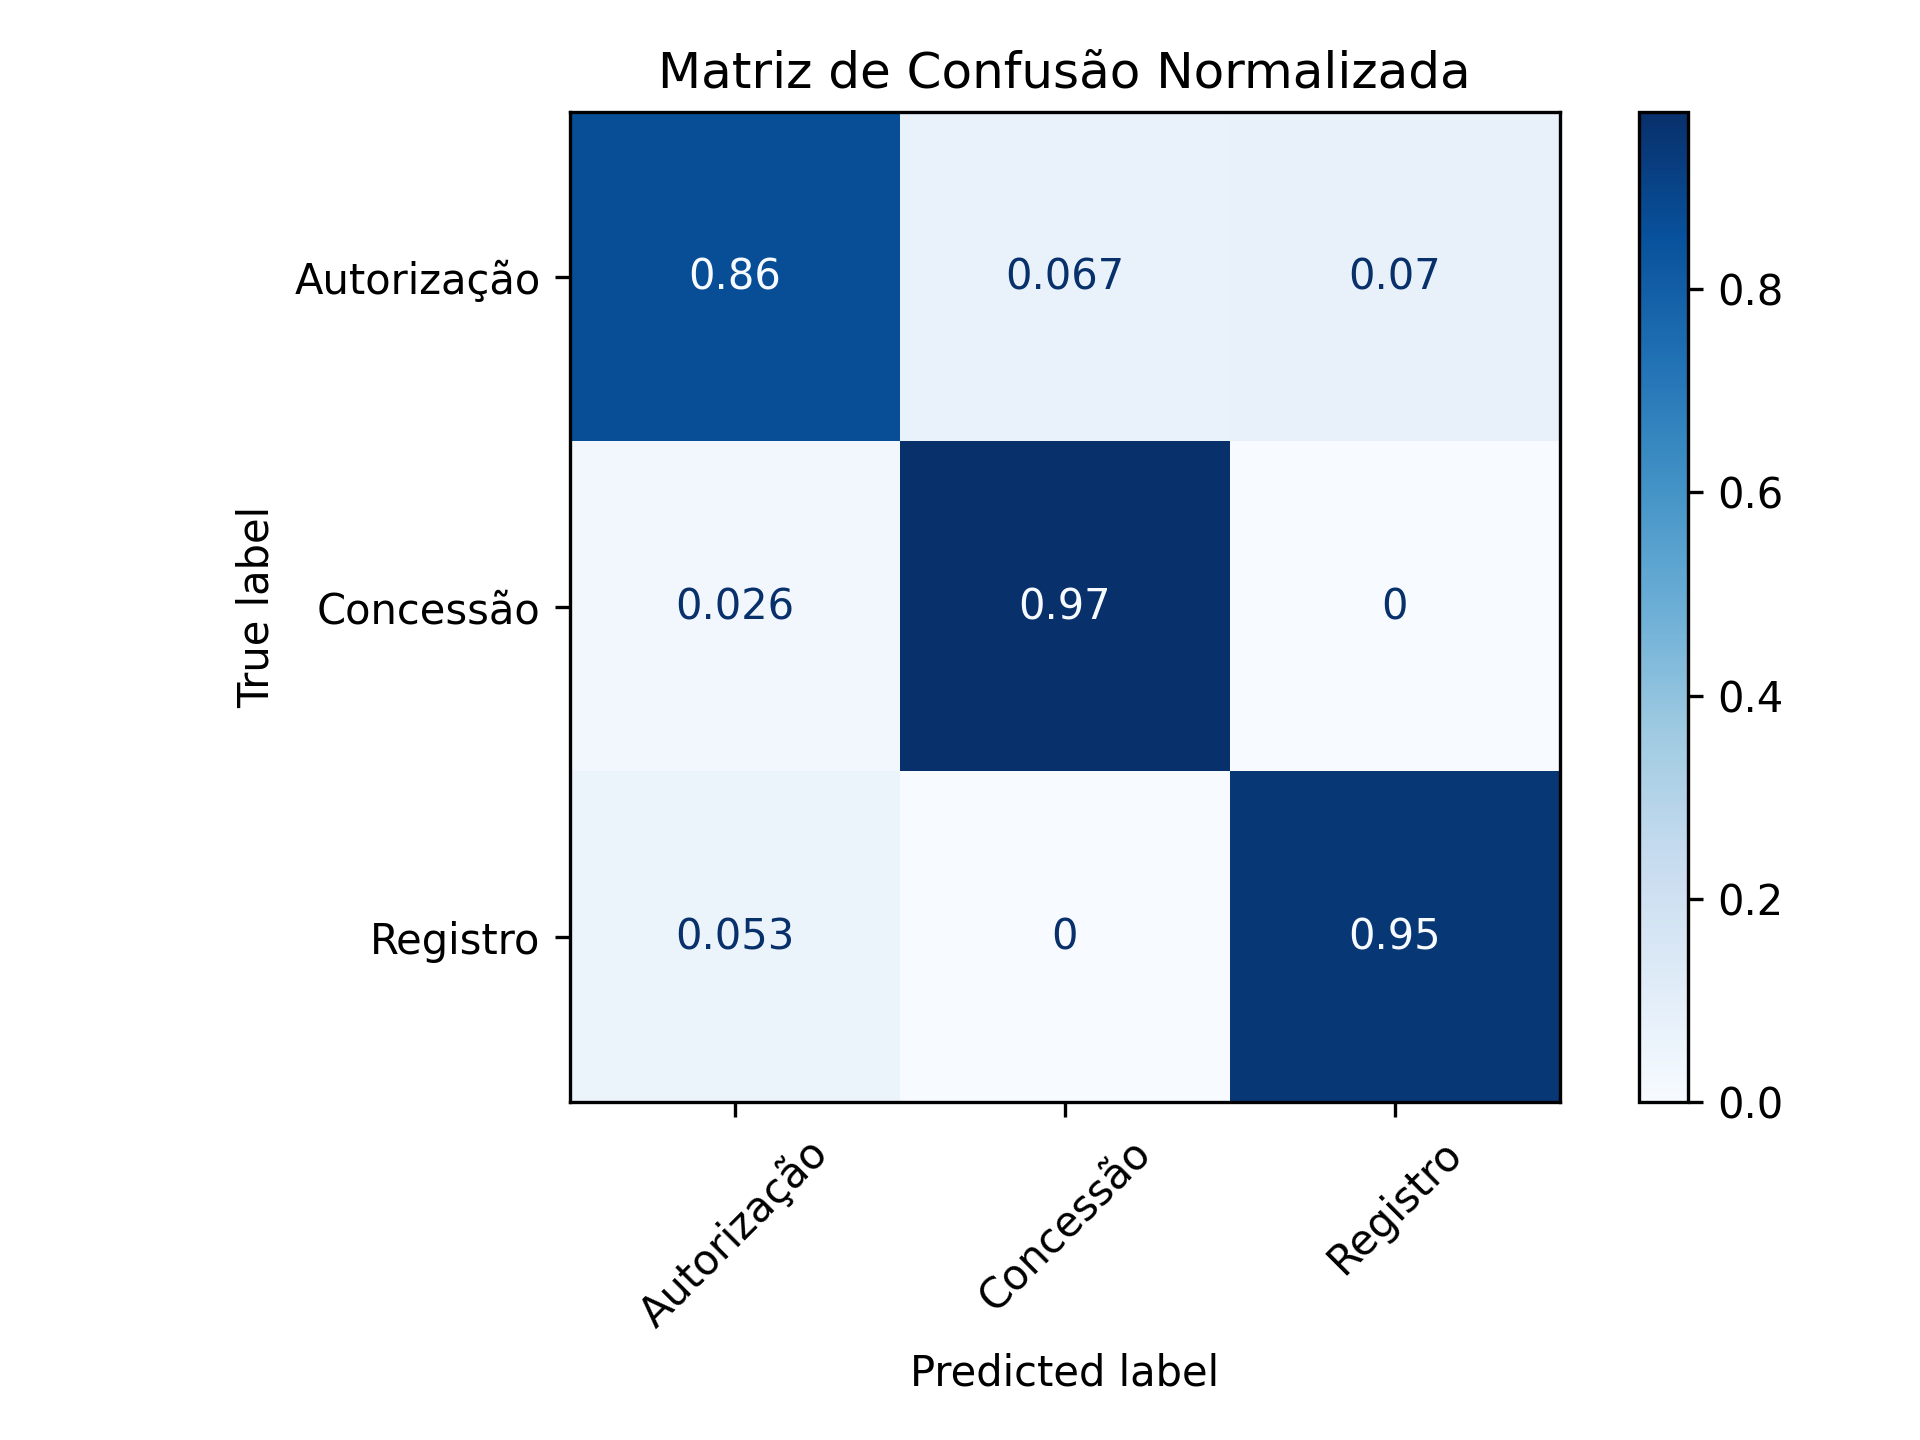
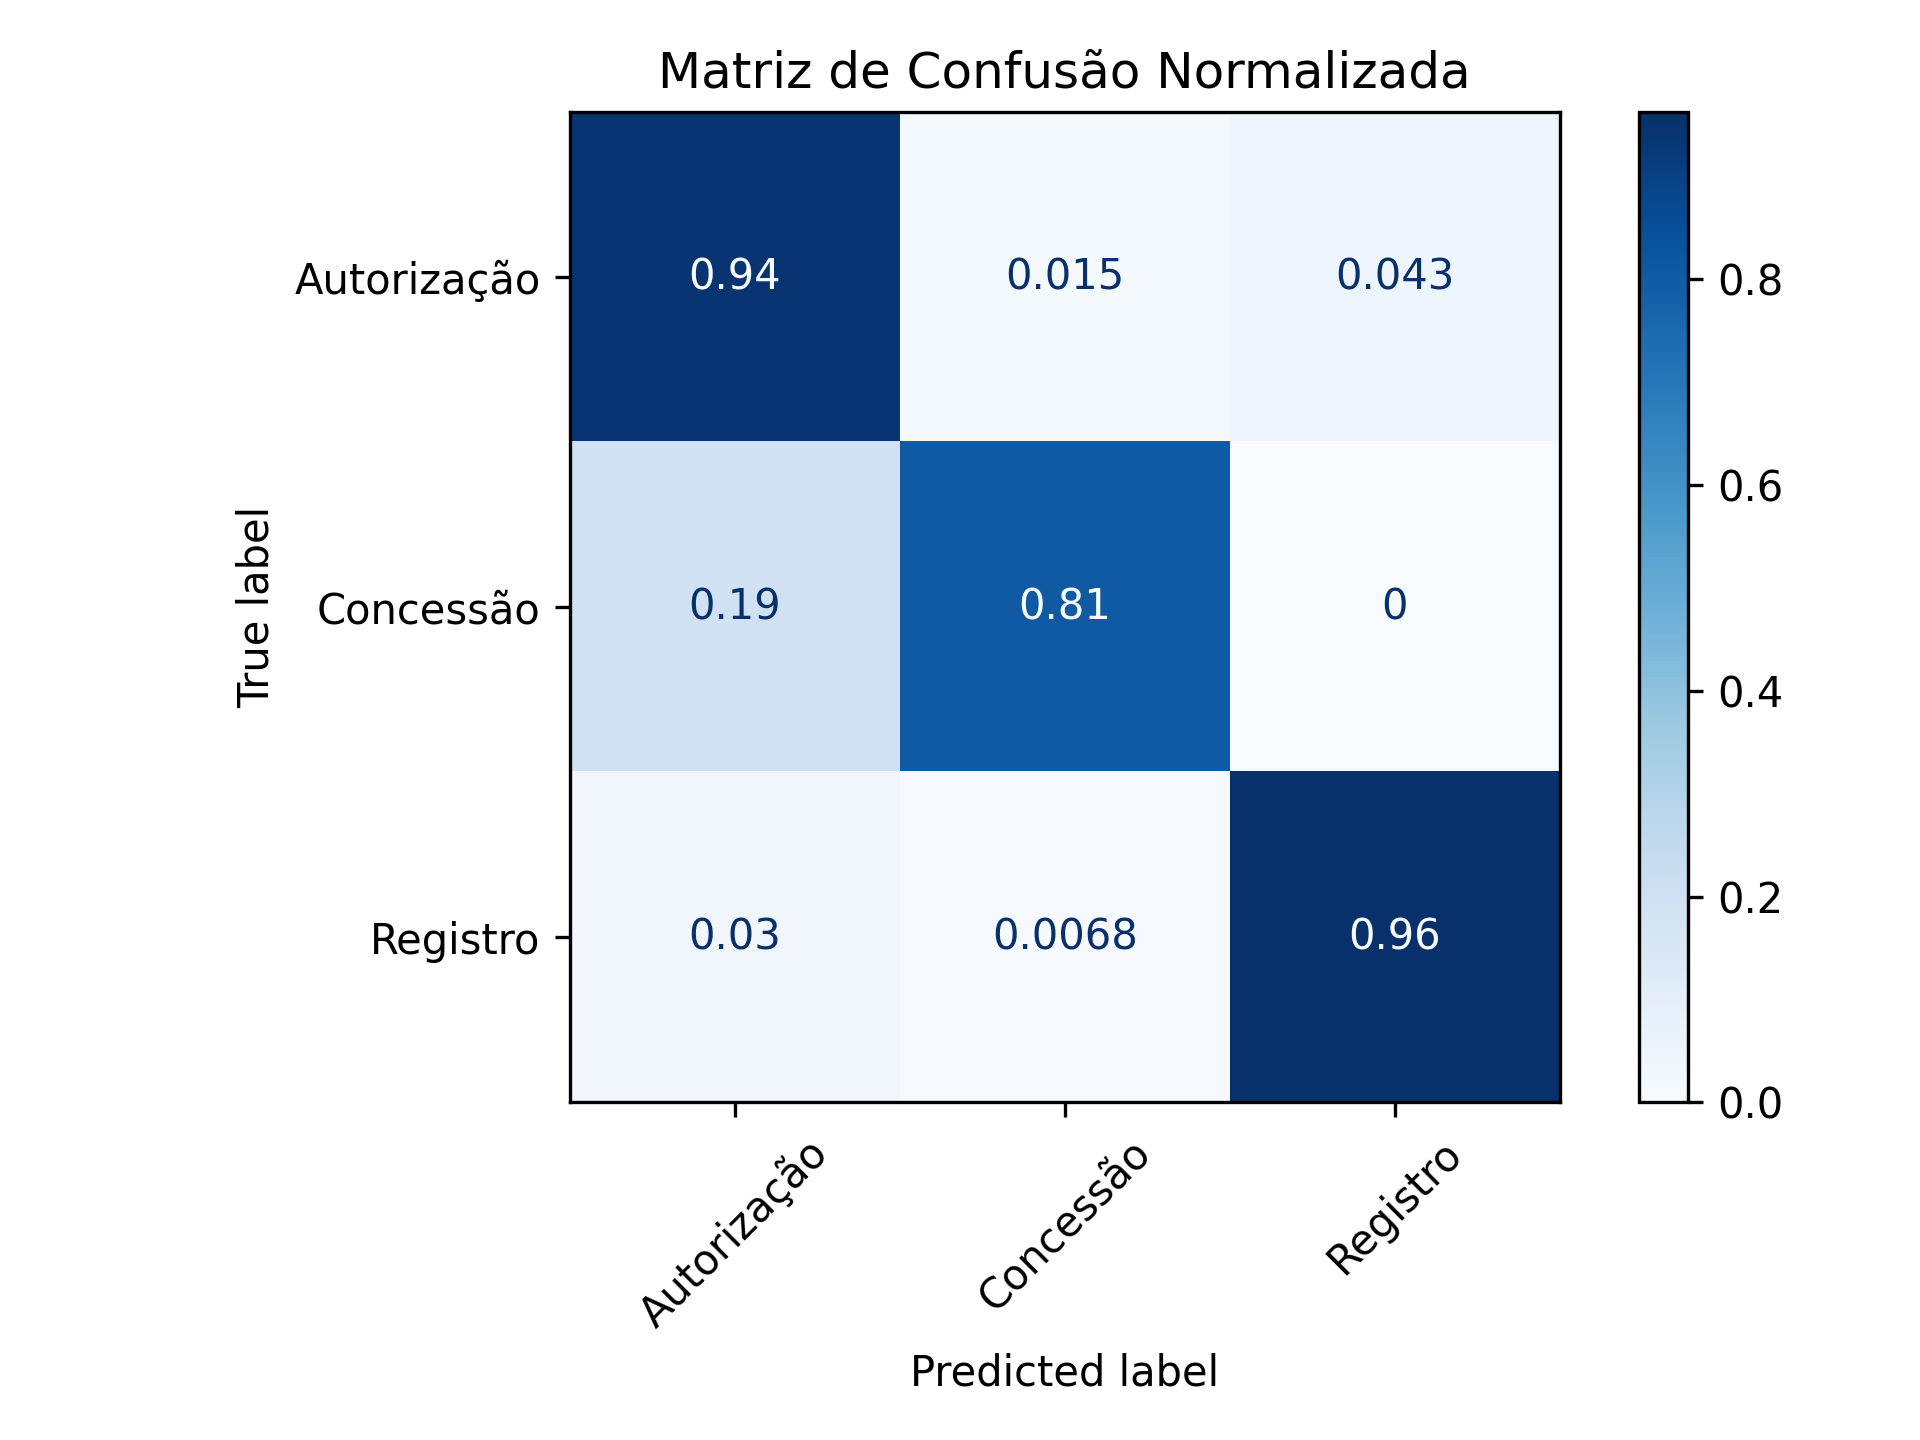
Atualizando o Readme. Modificando o arquivo train.py e model.py em Rep Tree e no Random Forest

diff --git a/src/decision_tree/train.py b/src/decision_tree/train.py
@@ -24,7 +24,8 @@ def train_test(previsores, classe):
 
 def buscar_melhor_alpha(x_train, y_train):
     
-    arvore_base = DecisionTreeClassifier(random_state=2, class_weight='balanced')
+    arvore_base = DecisionTreeClassifier(random_state=2, 
+                                         class_weight='balanced')
     path = arvore_base.cost_complexity_pruning_path(x_train, y_train)
     ccp_alphas = path.ccp_alphas
 
@@ -42,14 +43,24 @@ def alpha(ccp_alphas, x_train, y_train):
     
     return scores
 
+def poda_visualizacao_relatorio():
+
+    arvore_podada_relatorio = DecisionTreeClassifier(
+            random_state=2,
+            #ccp_alpha=melhor_alpha,
+            max_depth=8, 
+            min_samples_split=100,
+            max_leaf_nodes=10,
+            class_weight='balanced'
+    ) 
+
+    return arvore_podada_relatorio
+
 def poda(melhor_alpha):
 
     arvore_podada = DecisionTreeClassifier(
                 random_state=2, 
                 ccp_alpha=melhor_alpha,
-                max_depth=8, 
-                min_samples_split=100,
-                max_leaf_nodes=10,
                 class_weight='balanced')
     
     return arvore_podada 
@@ -76,18 +87,15 @@ def matriz_confusao(y_test, previsoes, arvore):
 def acuracia(y_test, previsoes): 
 
     taxa_acerto = accuracy_score(y_test, previsoes)
-    taxa_erro = 1 - taxa_acerto
-
     return taxa_acerto 
 
 
-def variavei_importantes(arvore, dados_usina, y_test, previsoes):
+def variaveis_importantes(arvore, data_frame, y_test, previsoes):
 
-    importancias = pd.Series(arvore.feature_importances_, index=dados_usina.columns[:-1])
+    importancias = pd.Series(arvore.feature_importances_, index=data_frame.columns[:-1])
     print(importancias.sort_values(ascending=False))
 
-    print(classification_report(y_test, previsoes))
-
+    
 
 def gerar_arvore(arvore_podada):
 

diff --git a/src/decision_tree/model.py b/src/decision_tree/model.py
@@ -22,6 +22,7 @@ def criar_modelo_decision_tree():
     melhor_indice = np.argmax(scores)
     melhor_alpha = ccp_alphas[melhor_indice]
 
+    #Ávore para metricas do Relatório 
     arvore_podada = t.poda(melhor_alpha)
 
     arvore_podada.fit(x_train, y_train)
@@ -29,13 +30,19 @@ def criar_modelo_decision_tree():
     previsoes = arvore_podada.predict(x_test)
 
     taxa_acerto = t.acuracia(y_test, previsoes)
-    importancias = t.variavei_importantes(arvore_podada, dados_usina, y_test, previsoes)
+    importancias = t.variaveis_importantes(arvore_podada, dados_usina, y_test, previsoes)
     
-    print(importancias)
+    #t.matriz_confusao(y_test, previsoes, arvore_podada)
+
     print(taxa_acerto)
     print(classification_report(y_test, previsoes))
 
-    #t.matriz_confusao(y_test, previsoes, arvore_podada)
+    #Visulização da Árvore para Relatório
 
+    #arvore_relatorio = t.poda_visualizacao_relatorio() 
 
-    #t.gerar_arvore(arvore_podada)
+    #arvore_relatorio.fit(x_train, y_train)
+
+    #t.gerar_arvore(arvore_relatorio)
+
+    

diff --git a/src/random_forest/model.py b/src/random_forest/model.py
@@ -1,27 +1,29 @@
 from src.data_transformation.transformation import tratamento_dados as trans
 from src.random_forest import train as t 
 
-from sklearn.preprocessing import LabelEncoder
 from sklearn.ensemble import RandomForestClassifier
 
 def criar_modelo_random_forest(): 
 
     previsores, classe, dados_usina = trans()
 
-    x_train, x_test, y_train, y_test  = t.train_test_split(previsores, classe)
+    x_train, x_test, y_train, y_test  = t.train_test(previsores, classe)
 
-    floresta = RandomForestClassifier(n_estimators=100)
+    floresta = RandomForestClassifier(n_estimators=100, random_state=2)
 
     floresta.fit(x_train, y_train)
 
-    floresta.estimator_
+    #floresta.estimator_
 
     previsoes = floresta.predict(x_test)
 
-    #t.matriz_confusao(y_test, previsoes, floresta)
 
-    t.acuracia(y_test, previsoes)
+    acuracia = t.acuracia(y_test, previsoes)
+    
+    print(acuracia)
 
     t.variavei_importantes(floresta, dados_usina, y_test, previsoes)
+    
+    t.matriz_confusao(y_test, previsoes, floresta)
 
 

diff --git a/src/random_forest/train.py b/src/random_forest/train.py
@@ -12,7 +12,8 @@ def train_test(previsores, classe):
     x_train, x_test, y_train, y_test = train_test_split(previsores,
                                                         classe,
                                                         test_size=0.3,
-                                                        random_state=0)
+                                                        random_state=0,
+                                                        stratify=classe)
     
     return x_train, x_test, y_train, y_test 
 
@@ -25,7 +26,7 @@ def matriz_confusao(y_test, previsoes, floresta):
             previsoes,
             display_labels=floresta.classes_,
             cmap='Blues',
-            #normalize='True',
+            normalize='true',
             xticks_rotation=45
     )
 

diff --git a/main.py b/main.py
@@ -8,8 +8,8 @@ def dashboard():
     webbrowser.open(f"file://{caminho_arquivo}")
 
 def main():
-    md_rp.criar_modelo_decision_tree()
-    md_rf.criar_modelo_random_forest()
+    #md_rp.criar_modelo_decision_tree()
+    #md_rf.criar_modelo_random_forest()
     dashboard()
 
 if __name__ == "__main__":

diff --git a/README.md b/README.md
@@ -39,7 +39,7 @@ Sistemas_Eletrico_Brasileiro/
 ├── src/
 │   ├── data_transformation/       # Preparação da base de dados
 │   │   └── transformation.py
-│   ├── decision_tree/             # Modelo de Árvore de Decisão 
+│   ├── decision_tree/             # Modelo Rep Tree 
 │   │   ├── model.py               
 │   │   └── train.py               
 │   └── random_forest/             # Modelo Random Forest 
@@ -184,20 +184,20 @@ Raiz (DscFonteCombustivel)
 
 |Classe (Alvo) | Precisão | Recall |F1-Score|Suporte|
 |-------|-------|-------|-------|-------|
-|`Autorização`|0.89|0.86|0.8|1.607|
-|`Concessão`|0.41|0.97|0.58|78|
-|`Registro`|0.98|0.95|0.96|5.891|
-|`Acurácia Geral (Accuracy)`|-|-|0.93|7.576|
-|`Macro Average`|0.74|0.93|0.79|7.576|
-|`Weighted Average`|0.94|0.93|0.93|7.576|
+|`Autorização`|0.89|0.94|0.91|1.607|
+|`Concessão`|0.50|0.81|0.61|78|
+|`Registro`|0.99|0.96|0.98|5.891|
+|`Acurácia Geral (Accuracy)`|-|-|0.96|7.576|
+|`Macro Average`|0.79|0.90|0.83|7.576|
+|`Weighted Average`|0.96|0.96|0.96|7.576|
 
- • Acurácia Geral (0.93): O modelo acerta 93% de todas as classificações que faz na base de teste, somando as três classes.
+ • Acurácia Geral (0.95): O modelo acerta 93% de todas as classificações que faz na base de teste, somando as três classes.
 
- • Macro Average (F1-Score: 0.79): É a média simples do desempenho das três classes. Como dá peso igual a todas, mostra que o modelo vai bem mesmo na classe com poucos dados (`Concessão`)
+ • Macro Average (F1-Score: 0.84): É a média simples do desempenho das três classes. Como dá peso igual a todas, mostra que o modelo vai bem mesmo na classe com poucos dados (`Concessão`)
 
- • Weighted Average (F1-Score: 0.93): É a média ponderada que leva em conta o tamanho de cada classe (Suporte).  Como reflete a proporção real da base de dados, isso vai em encontra com os 93% da acurácia observados.
+ • Weighted Average (F1-Score: 0.94): É a média ponderada que leva em conta o tamanho de cada classe (Suporte).  Como reflete a proporção real da base de dados, isso vai em encontra com os 93% da acurácia observados.
  
- • Observação: Mesmo com a aplicação de técnicas de balanceamento, a classe `Concessão` obteve um valor baixo de precisão. Isso evidencia que o modelo apresenta limitações para desempenhar com alta assertividade em variáveis (classes) que possuem poucas observações na base de dados, gerando um volume expressivo de falsos positivos. 
+ • Observação: Mesmo com a aplicação de técnicas de balanceamento, a classe `Concessão` obteve um valor baixo de precisão. Isso evidencia que o modelo apresenta limitações para desempenhar com alta assertividade na classe Concessão, com poucas observações na base de dados, gerando um volume expressivo de falsos positivos. 
 
 ### Random Forest 
 